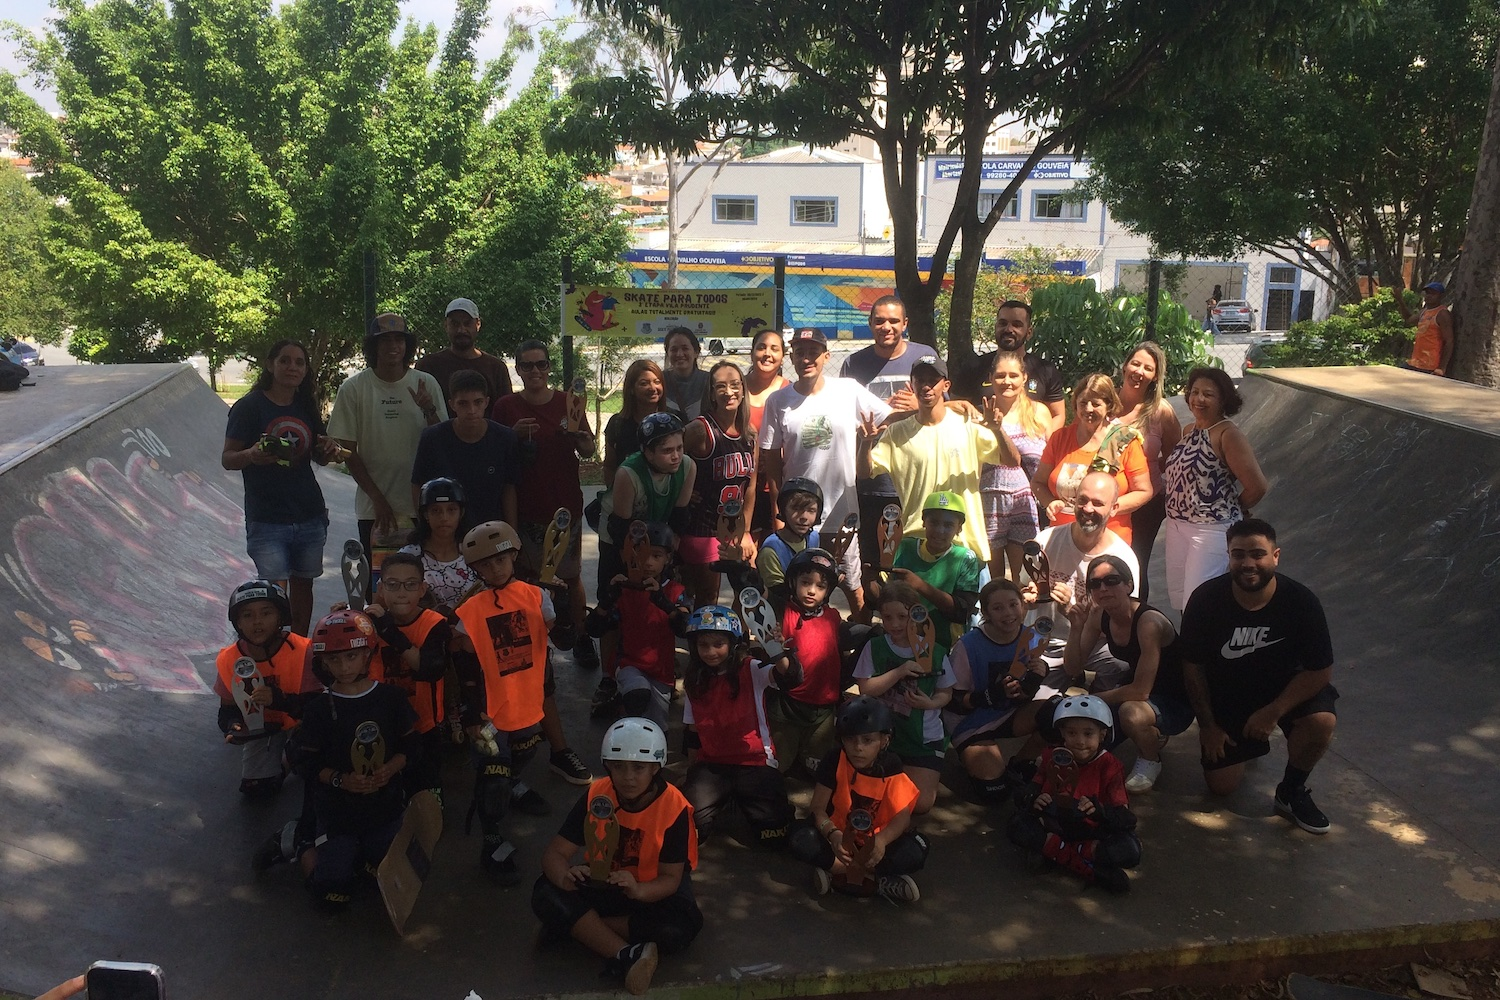
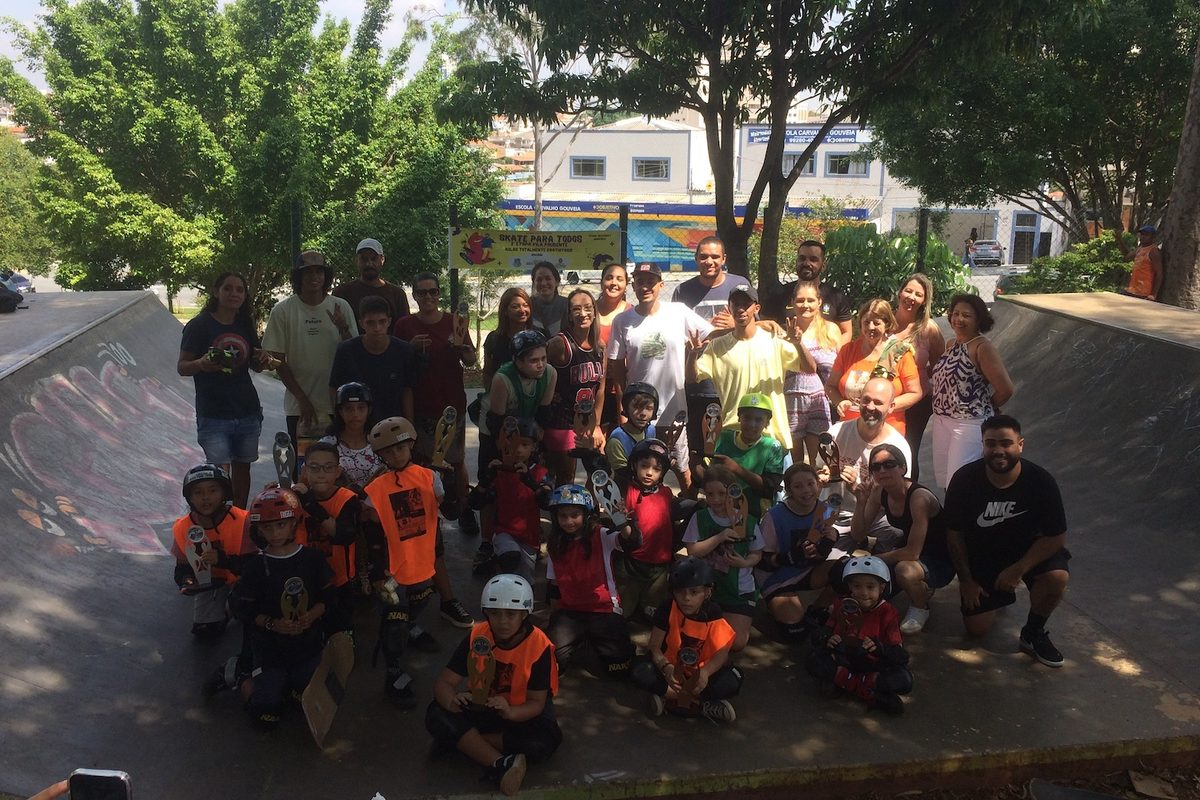
Unify index-intro rows: shared height mechanism + optimized photos
Both photo boxes now use the same text-height-driven sizing (was
bottom-row-only). Promoted the position:absolute img technique and
align-items:stretch to shared rules, removing all bottom-row-specific
overrides. The only per-row CSS difference remaining is the
grid-template-columns flip for L/R order.

Also resize index-top-right.jpg (3000×2000 → 1200×800, 2.2 MB → 222 KB)
and index-bottom-left.jpeg (1500×1000 → 1200×800, 676 KB → 232 KB).

diff --git a/static/css/styles.css b/static/css/styles.css
@@ -409,12 +409,7 @@ body.home .content-backdrop {
     display: grid;
     gap: 1.5rem;
     margin-bottom: 1rem;
-    /* Without this, grid's default align-items: stretch forces the
-       photo to match the text beat's height (usually taller), which
-       would silently cancel out .index-intro__photo's smaller
-       min-height below - decoupling lets the photo actually render
-       shorter instead of stretching back up. */
-    align-items: start;
+    align-items: start; /* mobile: each cell its natural height */
 }
 
 .index-intro__row--top {
@@ -425,61 +420,31 @@ body.home .content-backdrop {
     grid-template-columns: 1fr 1.4fr;
 }
 
-/* Desktop only (matches the min-width: 641px counterpart of the
-   max-width: 640px collapse below): makes the photo match the "Wie
-   wir arbeiten" text's own height exactly, instead of its own fixed
-   220px crop. Below 640px the row collapses to one column, so photo
-   and text land in separate implicit grid rows with nothing to
-   stretch to - the same rules there collapsed this box to 0 height
-   (its content is taken out of flow, see below), hiding the image
-   entirely, so this whole block must stay scoped above the
-   breakpoint. */
+/* Desktop: both rows share the same height mechanism — image fills text-card
+   height exactly (tops and bottoms aligned). abs-positioned img takes the
+   photo box out of flow so the row height is driven by the text only; the
+   box then fills that height via align-items: stretch.
+   Must stay above the mobile breakpoint: below 641px the grid collapses to
+   one column, each item is alone in its row, and position: absolute on the
+   img would collapse the box to 0 height. */
 @media (min-width: 641px) {
-    /* Top row: no height override needed — aspect-ratio: 3/2 on the
-       base rule sizes the box to match the source image ratio, giving
-       zero or minimal crop at any viewport width.
-       ⚠ At max desktop (~477px column) the image will be ~318px tall,
-       which exceeds the ~230px text beside it; align-items: start means
-       it simply extends further down — tweak here if you prefer the
-       image capped to text height instead.
-       ← Revert: height: 236px (or any target px) here instead. */
-
-    /* More breathing room between the "Wer wir sind" and "Wie wir
-       arbeiten" blocks, overriding the base row's 1rem margin-bottom -
-       scoped to row--top only so it doesn't also add space after
-       row--bottom, right before the section ends. */
-    .index-intro__row--top {
-        margin-bottom: 5rem; /* 2× 2.5rem — tune here to adjust row→row gap */
-    }
-
-    .index-intro__row--bottom {
-        /* Overrides the base row's align-items: start. */
+    .index-intro__row {
         align-items: stretch;
     }
 
-    /* Just setting min-height: 0 here was not enough on its own - the
-       <img> inside is still governed by the same height: 100% chain
-       documented on .index-intro__photo below, and while that's
-       indeterminate (during the row's own auto-height computation) it
-       falls back to the image's natural aspect-ratio height, which is
-       itself then what .index-intro__photo reports as ITS OWN natural
-       size - so the row track still ended up sized to the photo, with
-       the text stretching UP to match the photo instead of the
-       reverse.
+    /* More breathing room between the two rows. Scoped to row--top only
+       so it doesn't add space after row--bottom before the section ends. */
+    .index-intro__row--top {
+        margin-bottom: 5rem; /* tune here to adjust row→row gap */
+    }
 
-       Taking the <img> out of flow entirely (position: absolute,
-       sized below) means it contributes nothing to that computation,
-       so the row's height comes only from the text beat, and the
-       photo (position: relative, stretched by align-items: stretch
-       above) fills exactly that height with the image cropped via
-       object-fit: cover to match. */
-    .index-intro__row--bottom .index-intro__photo {
+    .index-intro__photo {
         position: relative;
         height: auto;
         min-height: 0;
     }
 
-    .index-intro__row--bottom .index-intro__photo img {
+    .index-intro__photo img {
         position: absolute;
         inset: 0;
     }
@@ -514,20 +479,11 @@ body.home .content-backdrop {
     border-radius: 12px;
 }
 
-/* Photo slot. aspect-ratio: 3/2 matches the source images (both
-   re-cropped to 3:2 at ~1500×1000 px and 3000×2000 px) so the box
-   tracks the image ratio at every viewport width — object-fit: cover
-   then fills it with minimal or zero cropping.
-
-   aspect-ratio gives the browser a definite height (width × 2/3), so
-   height: 100% on the <img> child resolves correctly — same guarantee
-   as an explicit pixel value. For the bottom row, align-items: stretch
-   overrides this at desktop (explicit computed height from the grid row
-   wins over aspect-ratio), so text-height matching is preserved there.
-
-   ← To revert to fixed pixel heights: replace aspect-ratio with
-     height: 220px here and restore height: 236px in the top-row
-     desktop comment above. */
+/* Photo slot. aspect-ratio: 3/2 governs the box height on mobile
+   (single-column, natural sizing). On desktop the grid row height
+   (text-driven via align-items: stretch) overrides aspect-ratio, so
+   the box fills the text card height — object-fit: cover handles the
+   resulting crop. */
 .index-intro__photo {
     display: flex;
     aspect-ratio: 3 / 2;
@@ -545,24 +501,15 @@ body.home .content-backdrop {
 }
 
 /* ---- Per-image focal-point controls ----------------------------------------
-   Two independent object-position values — one per photo. Tune each on its
-   own line. Any CSS <position> works: "center", "top", "bottom", "left",
-   "right", "50% 30%", "center top", etc.
+   Both boxes are text-height-driven on desktop; some vertical crop is
+   expected. Adjust object-position if the subject is off-center vertically.
 
-   TOP ROW  — index-top-right.jpg  (landscape 3000×2000, 3:2)
-   Box is aspect-ratio: 3/2 matching the source — zero crop at any viewport
-   width. object-position has no visible effect unless the box ratio drifts
-   (e.g. if you restore a fixed pixel height in the top-row override above). */
+   TOP ROW  — index-top-right.jpg  (3000×2000, 3:2) */
 .index-intro__row--top .index-intro__photo img {
     object-position: center;    /* ← top-row focal point — tune here */
 }
 
-/* BOTTOM ROW — index-bottom-left.jpeg  (landscape 1500×1000, 3:2)
-   Box height = text height (align-items: stretch); align-items: stretch
-   overrides aspect-ratio: 3/2 at desktop, so the box is text-height-driven.
-   At typical text heights (~280–320px) with a ~477px-wide column the box
-   ratio is close to 3:2 → only ~6% vertical crop. Still centered by default;
-   shift if the subject is off-center vertically. */
+/* BOTTOM ROW — index-bottom-left.jpeg  (1500×1000, 3:2) */
 .index-intro__row--bottom .index-intro__photo img {
     object-position: center;    /* ← bottom-row focal point — tune here */
 }
